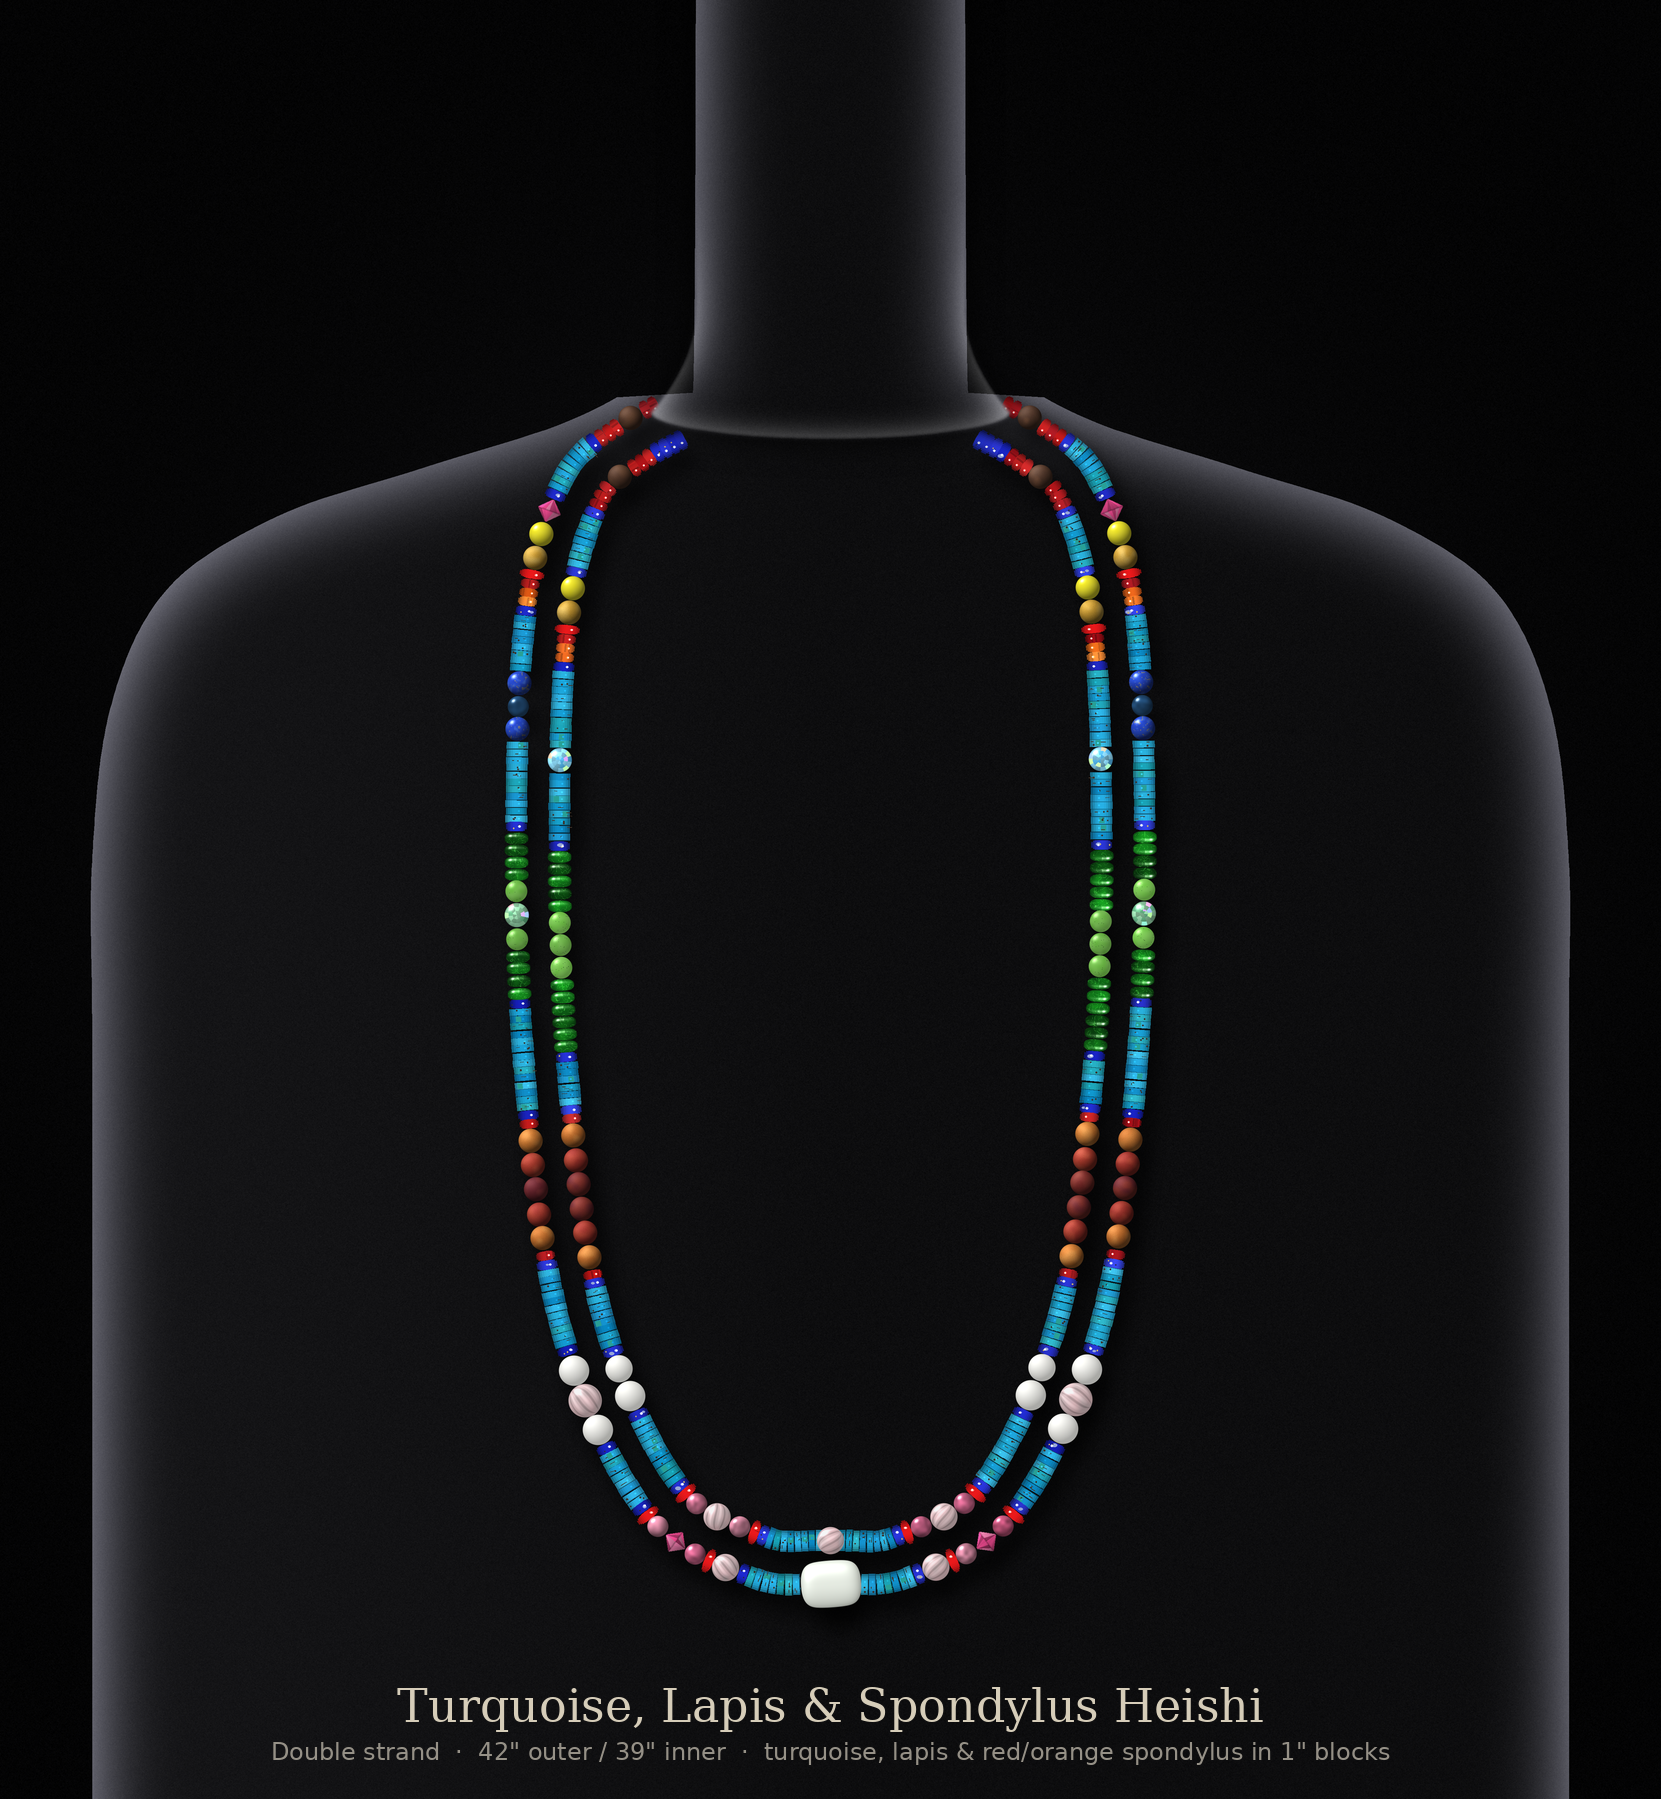
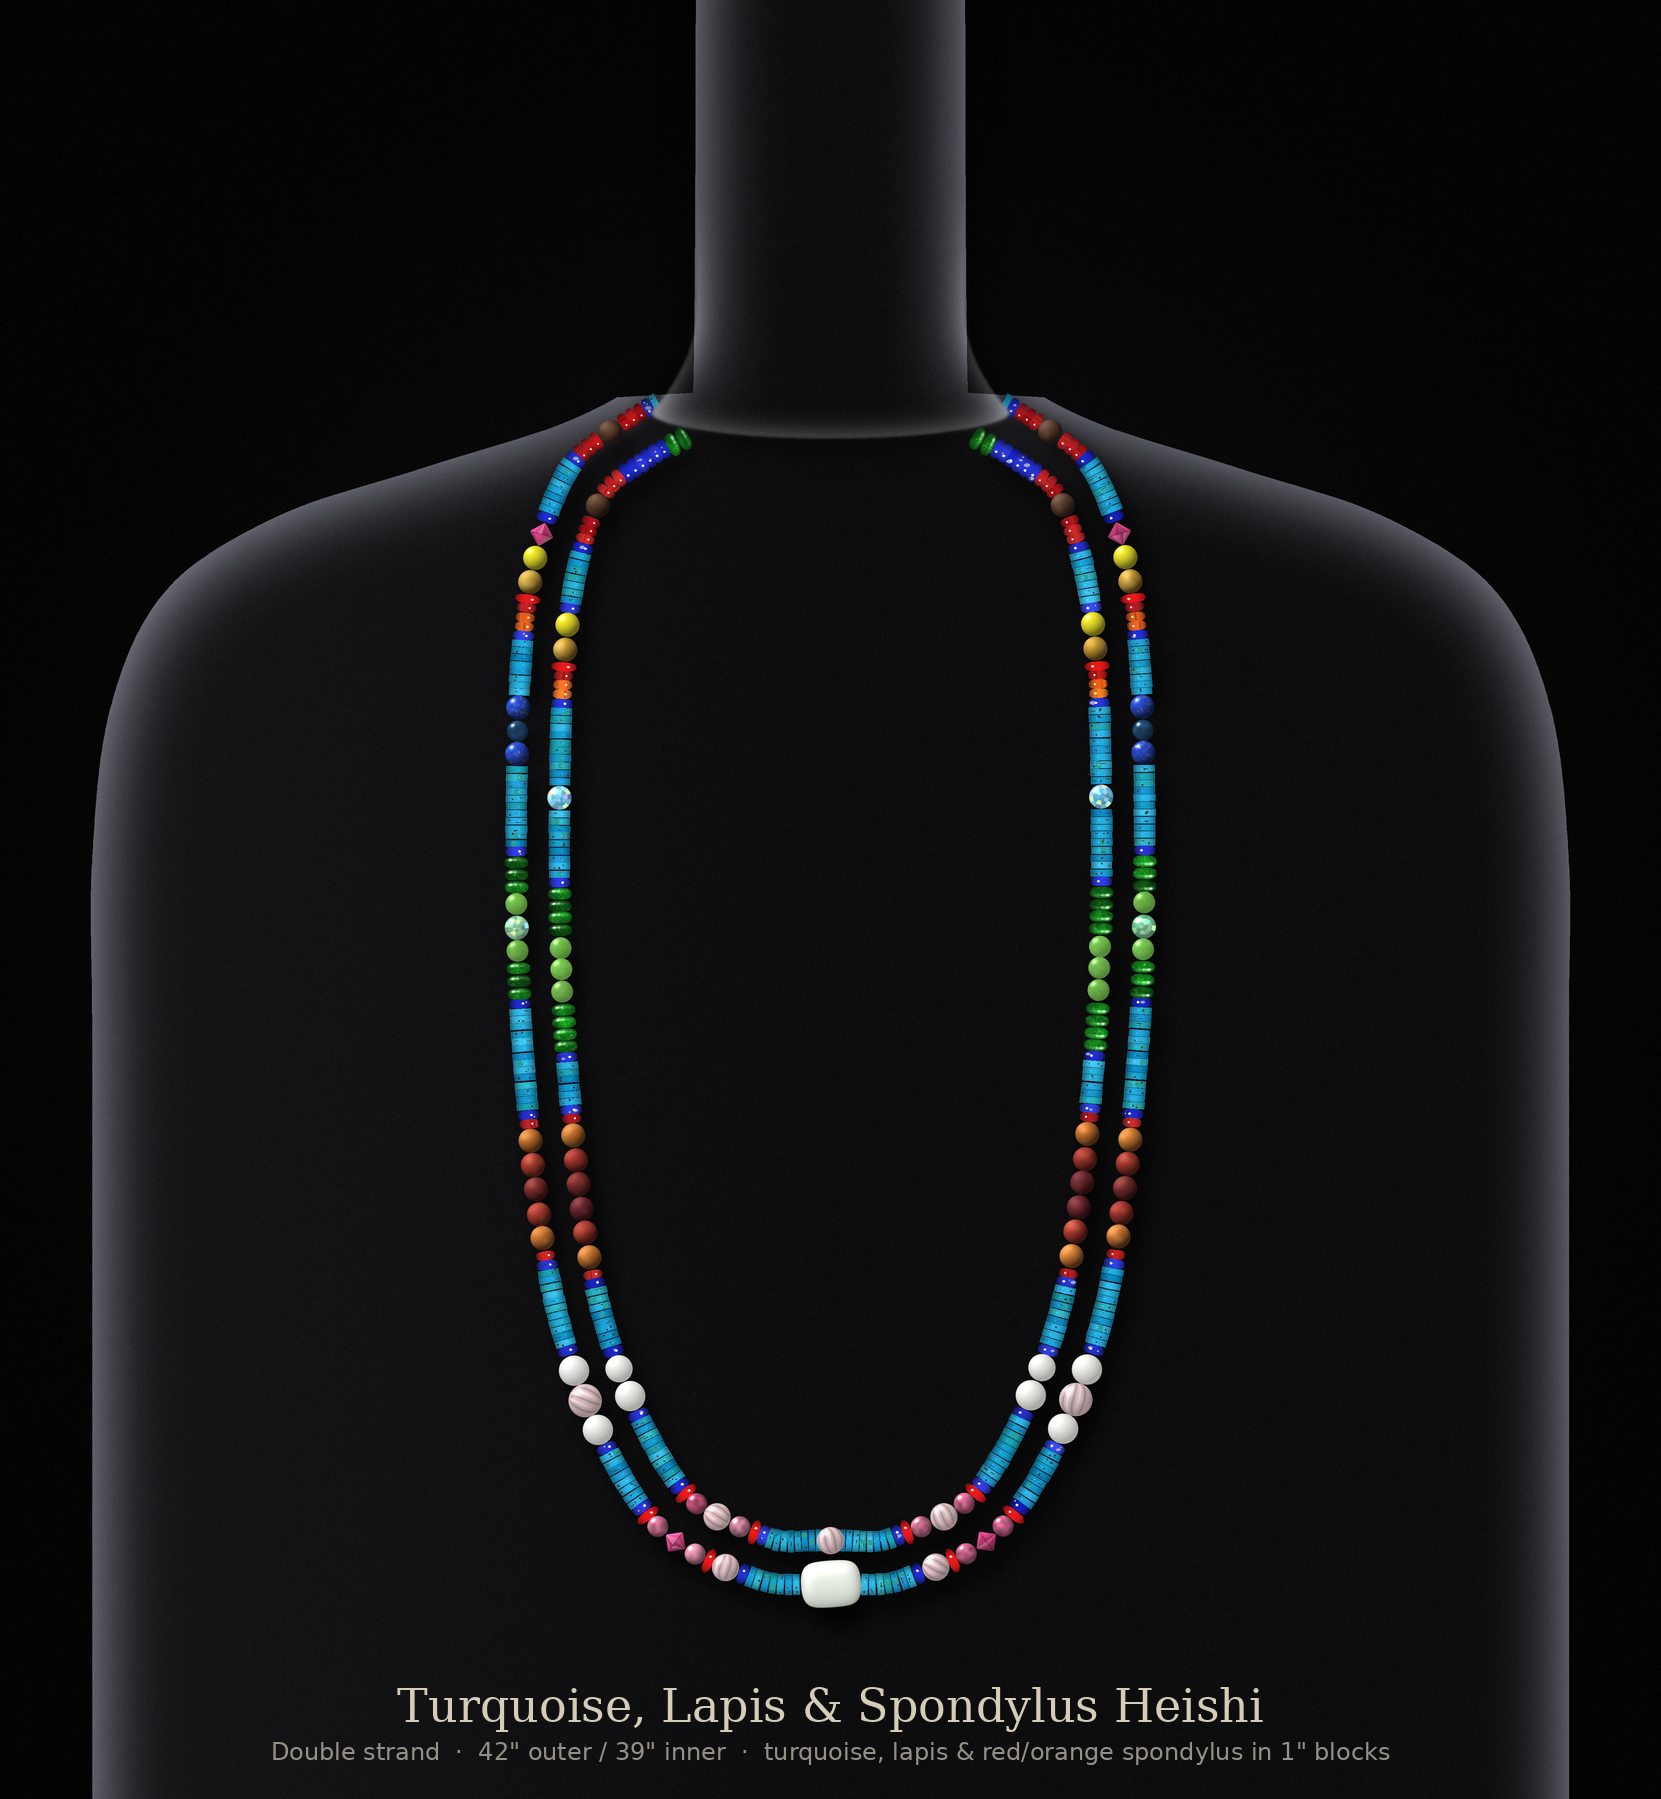
Version 5: fewer chrome diopside in the main green band
Claude-Session: https://claude.ai/code/session_014be1vF4Rdf8sv9Si75Gudv

diff --git a/necklace/render_necklace.py b/necklace/render_necklace.py
@@ -955,7 +955,7 @@ if V4:
         # room for the new borders comes from the top green band: fewer chrome diopside there
         BANDS[1] = (F(["olive"], "diop", 3), F(["gtourm"], "diop", 3))
         # only 10 green jade: inner green band keeps 3 jade, the lost jade's space goes to 2 more chrome diopside
-        BANDS[5] = (BANDS[5][0], F(["jade", "jade", "jade"], "diop", 11))
+        BANDS[5] = (F(["jade", "gglass", "jade"], "diop", 6), F(["jade", "jade", "jade"], "diop", 8))   # outer: one fewer each end; inner: 4 above, 4 below
         # 8 mm maroon mookaite replaces the 10 mm apple jasper
         BANDS[6] = tuple([("mookred" if k == "ajas" else k) for k in b] for b in BANDS[6])
         # sapphire glass bicones -> 7 mm blue (indicolite) tourmaline
